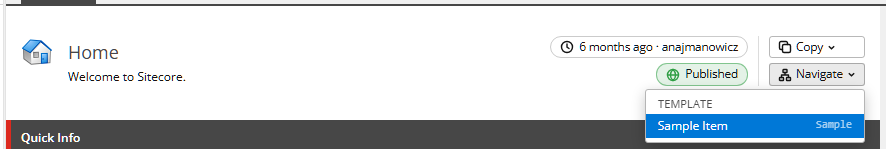
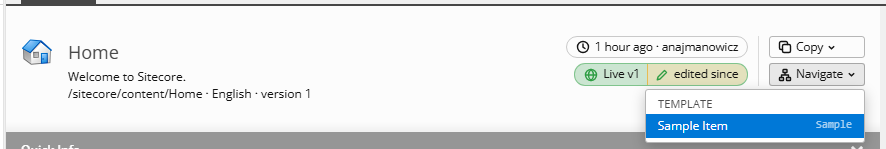
Item info: the Published chip says which version is live and what waits behind it
- Compares web with master's newest version in this language: Published · vN when it is live, else Live vN or Not published beside what waits
- Edited since (the live version changed after publishing), vN · state (a newer version in workflow), vN ready to publish (final state or no workflow), not in master (web holds a version master lost)
- The workflow state comes from Gallery.WorkflowEdit, asked only when web lacks the newest version; a state with no workflow commands counts as final
- Each half has its own tint, a screen reader hears both, the tooltip says each in a sentence
- Unit test for every state; the docs section and pictures redone

diff --git a/extension/lib/aids/item-info.js b/extension/lib/aids/item-info.js
@@ -1,12 +1,14 @@
 // Item info: a small panel at the right of the Content Editor's item header. Two chips say when the item's version was
-// last modified and by whom (the user name without its domain), and whether the item has a version in this language in
-// the web database; Copy puts the item's or its template's name, path or ID on the clipboard, and Navigate opens its
+// last modified and by whom (the user name without its domain), and which version in this language is live in the web
+// database against master's newest: up to date, edited since it was published, or a newer version still in workflow or
+// ready to publish; Copy puts the item's or its template's name, path or ID on the clipboard, and Navigate opens its
 // template, or one of the templates that template inherits from (Sitecore's own, under /sitecore/templates/System,
 // left out).
 // Nothing here holds up the editor: the chips fill in once the browser is idle, from the version list Sitecore shows
-// under the ribbon's version button (Gallery.Versions, once for the content database and once for web), and Navigate
-// reads the template's Inheritance tab (TemplateInheritance) the first time it opens. Copy reads Quick Info, already in
-// the page; without Quick Info (switched off in the Application Options) there is no template to copy or open.
+// under the ribbon's version button (Gallery.Versions, once for the content database and once for web), and, when web
+// lacks master's newest version, from the Review tab's workflow menu for it (Gallery.WorkflowEdit). Navigate reads the
+// template's Inheritance tab (TemplateInheritance) the first time it opens. Copy reads Quick Info, already in the page;
+// without Quick Info (switched off in the Application Options) there is no template to copy or open.
 // The pill says how long ago; its tooltip has Sitecore's own text for the date, in the user's format and the server's time.
 // ponytail: a template's inheritance is kept for the page's life; a base template changed meanwhile shows on reload
 (function (root) {
@@ -21,6 +23,10 @@
     globeOff: svg('<circle cx="7" cy="7" r="5.5"/><path d="M1.5 7h11M7 1.5C5.2 3.1 4.4 5 4.4 7s.8 3.9 2.6 5.5M7 1.5c1.8 1.6 2.6 3.5 2.6 5.5S8.8 10.9 7 12.5M1.5 1.5l11 11"/>'),
     copy: svg('<rect x="4.5" y="4.5" width="8" height="8" rx="1.5"/><path d="M9.5 4.5V3A1.5 1.5 0 0 0 8 1.5H3A1.5 1.5 0 0 0 1.5 3v5A1.5 1.5 0 0 0 3 9.5h1.5"/>'),
     template: svg('<rect x="5" y="1.5" width="4" height="3" rx=".5"/><rect x="1.5" y="9.5" width="4" height="3" rx=".5"/><rect x="8.5" y="9.5" width="4" height="3" rx=".5"/><path d="M7 4.5V7M3.5 9.5V7h7v2.5"/>'),
+    flow: svg('<circle cx="3" cy="3" r="1.5"/><circle cx="11" cy="11" r="1.5"/><path d="M4.5 3H9a2 2 0 0 1 0 4H5a2 2 0 0 0 0 4h4.5"/>'),
+    ready: svg('<path d="M7 9.5V2.5M4.5 5L7 2.5 9.5 5M2.5 9.5v2h9v-2"/>'),
+    edited: svg('<path d="M9.5 2.5l2 2-6.5 6.5-2.7.7.7-2.7z"/>'),
+    gone: svg('<path d="M7 1.8l5.6 9.7H1.4z"/><path d="M7 5.5v2.6M7 10v.01"/>'),
     down: '<svg viewBox="0 0 10 10" width="9" height="9" aria-hidden="true" fill="none" stroke="currentColor" stroke-width="1.5"><path d="M2 3.5l3 3 3-3"/></svg>',
   };
   const inheritance = new Map(); // template ID -> Promise of [{ id, name, folder, depth }]
@@ -76,6 +82,55 @@
       const b = tr.querySelectorAll("b");
       return b.length === 2 && { ver: (/^(\d+)\./.exec(tr.textContent.trim()) || [])[1], date: b[0].textContent.trim(), user: b[1].textContent.trim() };
     }).filter(Boolean);
+  }
+
+  // A version's workflow and state, from the menu under the Review tab's workflow button: "The item is in the <b>Draft</b>
+  // state<br>in the <b>Sample Workflow</b> workflow.", a lock after a double break, then Edit and the state's commands.
+  // ponytail: Sitecore names no final state here; one with no commands (Sample Workflow's Approved) is taken as final,
+  // so a final state with commands of its own reads as still in workflow
+  function flowOf(page) {
+    const text = page.querySelector("div.scMenuItem");
+    if (!text) return { workflow: null }; // a template without the Workflow field
+    const [about, lock] = text.innerHTML.split(/<br\s*\/?>\s*<br\s*\/?>/i);
+    const box = page.createElement("div");
+    box.innerHTML = about; // an inert parsed page: nothing in it runs
+    const b = [...box.querySelectorAll("b")].map((x) => x.textContent.trim());
+    if (b.length < 2) return { workflow: b[0] || null, state: null };
+    // a lock can hide the commands, so a locked version is never taken as final
+    return { workflow: b[1], state: b[0], final: lock === undefined && !page.querySelector('[onclick*="item:workflow("]') };
+  }
+
+  async function workflow(doc, item, ver, signal) {
+    const r = await fetch(url(doc, "Gallery.WorkflowEdit", { id: item.id, la: item.lang, vs: ver, db: item.db }), { credentials: "include", signal });
+    const page = new DOMParser().parseFromString(await r.text(), "text/html");
+    if (!r.ok || !page.querySelector('form[action*="Gallery.WorkflowEdit"]')) throw new Error("not the workflow menu");
+    return flowOf(page);
+  }
+
+  // What web has against master's newest version in this language: rows from gallery() for each database, flow from
+  // workflow() for master's newest (undefined when web has it, null when it could not be read).
+  function published(mine, web, flow) {
+    const top = (rows) => rows.reduce((n, r) => Math.max(n, +r.ver || 0), 0);
+    const newest = top(mine);
+    const live = top(web);
+    const row = (rows, v) => rows.find((r) => +r.ver === v);
+    let next = null;
+    if (live && !row(mine, live)) {
+      next = { state: "gone", text: "not in master", title: `Version ${live} is no longer in master; publishing the item brings web in line.` };
+    } else if (newest > live) {
+      if (flow && flow.state && !flow.final) next = { state: "flow", text: `v${newest} · ${flow.state}`, title: `Version ${newest} is in the ${flow.state} state of the ${flow.workflow} workflow.` };
+      else if (flow && flow.workflow && !flow.state) next = { state: "flow", text: `v${newest} · no state`, title: `Version ${newest} is in the ${flow.workflow} workflow but has no state.` };
+      else if (flow) next = { state: "ready", text: `v${newest} ready to publish`, title: `Version ${newest} goes live on the next publish.` };
+      else if (live) next = { state: "ready", text: `v${newest} not published`, title: `Version ${newest} is not in web yet.` };
+    } else if (live) {
+      const m = row(mine, live);
+      const w = row(web, live);
+      if (m.date !== w.date || m.user !== w.user) next = { state: "edited", text: "edited since", title: `It was changed after it was published: ${m.date} by ${m.user}.` };
+    }
+    const head = live
+      ? { state: "yes", text: next ? `Live v${live}` : `Published · v${live}`, title: `Version ${live} is live in the web database.` }
+      : { state: "no", text: "Not published", title: "No version in this language in the web database." };
+    return { ...head, title: next ? `${head.title} ${next.title}` : head.title, next };
   }
 
   // the bases of a template, as its Inheritance tab nests them, Sitecore's own left out with everything under them
@@ -156,10 +211,23 @@
       const v = mine.status === "fulfilled" && (mine.value.find((r) => r.ver === item.ver) || mine.value.at(-1));
       if (v) fill(mod, ICONS.clock, `${ago(v.date) || v.date} · ${v.user.slice(v.user.lastIndexOf("\\") + 1)}`, `Modified ${v.date} by ${v.user}`);
       else mod.remove(); // signed out, or a page Sitecore would not give: no chip rather than a wrong one
-      if (pub && web.status === "fulfilled") {
-        const on = web.value.length > 0;
-        fill(pub, on ? ICONS.globe : ICONS.globeOff, on ? "Published" : "Not published",
-          on ? `In the web database: ${web.value.length} version${web.value.length > 1 ? "s" : ""} in this language` : "No version in this language in the web database", on ? "yes" : "no");
+      if (pub && web.status === "fulfilled" && mine.status === "fulfilled" && mine.value.length) {
+        const newest = mine.value.reduce((n, r) => Math.max(n, +r.ver || 0), 0);
+        const flow = web.value.some((r) => +r.ver >= newest) ? undefined : await workflow(ctx.doc, item, newest, ctrl.signal).catch(() => null);
+        if (ctrl.signal.aborted || !header.isConnected) return;
+        const p = published(mine.value, web.value, flow);
+        fill(pub, p.state === "yes" ? ICONS.globe : ICONS.globeOff, p.text, p.title, p.state);
+        if (p.next) {
+          // two halves, each with its own tint
+          const live = ctx.doc.createElement("sct-item-live");
+          live.append(...pub.childNodes);
+          pub.append(live);
+          const n = ctx.doc.createElement("sct-item-next");
+          n.dataset.state = p.next.state;
+          n.innerHTML = `<sct-item-sr>, </sct-item-sr>${ICONS[p.next.state]}`;
+          n.append(p.next.text);
+          pub.append(n);
+        }
       } else pub?.remove();
       status.removeAttribute("aria-busy");
     });
@@ -319,16 +387,30 @@
     load(ctx, header, status, item);
   }
 
+  SCT.itemInfo = { published }; // for the unit tests
+
   SCT.registerAid("item-info", {
     css: `.scEditorHeader:has(>sct-item-info){display:flow-root;height:auto!important}
 ${SCT.important(`sct-item-info{float:right;display:flex;align-items:flex-start;gap:10px;margin:0 0 4px 16px;font-size:11.5px;line-height:1.6;color:inherit}
 sct-item-status{display:flex;flex-direction:column;align-items:flex-end;gap:5px}
-sct-item-chip{display:inline-flex;align-items:center;gap:5px;padding:1px 9px;border:1px solid color-mix(in srgb,currentColor 22%,transparent);border-radius:11px;white-space:nowrap}
+sct-item-chip{display:inline-flex;align-items:center;gap:5px;padding:1px 9px;border:1px solid color-mix(in srgb,currentColor 22%,transparent);border-radius:11px;white-space:nowrap;overflow:hidden}
+sct-item-live,sct-item-next{display:inline-flex;align-items:center;gap:5px;padding:1px 7px 1px 9px}
+sct-item-next{padding:1px 9px 1px 7px;border-left:1px solid color-mix(in srgb,currentColor 22%,transparent)}
+sct-item-next[data-state="flow"]{background:color-mix(in srgb,#1c7ed6 14%,transparent);border-left-color:color-mix(in srgb,#1c7ed6 55%,transparent)}
+sct-item-next[data-state="flow"] svg{color:#1c7ed6}
+sct-item-next[data-state="ready"],sct-item-next[data-state="edited"]{background:color-mix(in srgb,#e8a10c 18%,transparent);border-left-color:color-mix(in srgb,#e8a10c 60%,transparent)}
+sct-item-next[data-state="ready"] svg,sct-item-next[data-state="edited"] svg{color:#c07f00}
+sct-item-next[data-state="gone"]{background:color-mix(in srgb,#e03131 14%,transparent);border-left-color:color-mix(in srgb,#e03131 55%,transparent)}
+sct-item-next[data-state="gone"] svg{color:#e03131}
+sct-item-sr{position:absolute;width:1px;height:1px;overflow:hidden;clip-path:inset(50%);white-space:nowrap}
 sct-item-chip svg,sct-item-info button svg{flex:none}
 sct-item-chip[data-state="yes"]{background:color-mix(in srgb,#2f9e44 13%,transparent);border-color:color-mix(in srgb,#2f9e44 55%,transparent)}
 sct-item-chip[data-state="yes"] svg{color:#2f9e44}
 sct-item-chip[data-state="no"]{background:color-mix(in srgb,#e8a10c 15%,transparent);border-color:color-mix(in srgb,#e8a10c 60%,transparent)}
 sct-item-chip[data-state="no"] svg{color:#c07f00}
+sct-item-chip:has(>sct-item-next){padding:0;gap:0;background:none}
+sct-item-chip[data-state="yes"]>sct-item-live{background:color-mix(in srgb,#2f9e44 13%,transparent)}
+sct-item-chip[data-state="no"]>sct-item-live{background:color-mix(in srgb,#e8a10c 15%,transparent)}
 sct-item-wait{display:inline-block;width:72px;height:9px;border-radius:5px;background:color-mix(in srgb,currentColor 12%,transparent)}
 sct-item-chip[data-kind="published"] sct-item-wait{width:52px}
 sct-item-actions{display:flex;flex-direction:column;gap:5px;padding-left:10px;border-left:1px solid color-mix(in srgb,currentColor 15%,transparent)}

diff --git a/test/unit/item-info.test.js b/test/unit/item-info.test.js
@@ -1,0 +1,31 @@
+const test = require("node:test");
+const assert = require("node:assert/strict");
+
+globalThis.SCT = globalThis.SCT || {};
+globalThis.SCT.registerAid ||= () => {};
+globalThis.SCT.important ||= (css) => css;
+require("../../extension/lib/aids/item-info.js");
+const { published } = globalThis.SCT.itemInfo;
+
+const v = (ver, date = "4/19/2026 6:21 PM", user = "sitecore\\jsmith") => ({ ver: String(ver), date, user });
+const said = (p) => [p.state, p.text, p.next && p.next.state, p.next && p.next.text];
+
+test("item-info: the Published chip, from web's versions against master's newest and its workflow state", () => {
+  // the newest is live, and unchanged since
+  assert.deepEqual(said(published([v(1), v(2)], [v(2)])), ["yes", "Published · v2", null, null]);
+  // the same version, changed after it was published
+  assert.deepEqual(said(published([v(2, "4/20/2026 9:00 AM")], [v(2)])), ["yes", "Live v2", "edited", "edited since"]);
+  // an older version live, the newer one in workflow, or ready
+  const flow = { workflow: "Sample Workflow", state: "Awaiting Approval", final: false };
+  assert.deepEqual(said(published([v(2), v(3)], [v(2)], flow)), ["yes", "Live v2", "flow", "v3 · Awaiting Approval"]);
+  assert.deepEqual(said(published([v(2), v(3)], [v(2)], { ...flow, state: "Approved", final: true })), ["yes", "Live v2", "ready", "v3 ready to publish"]);
+  assert.deepEqual(said(published([v(2), v(3)], [v(2)], { workflow: null })), ["yes", "Live v2", "ready", "v3 ready to publish"]);
+  assert.deepEqual(said(published([v(2), v(3)], [v(2)], null)), ["yes", "Live v2", "ready", "v3 not published"]);
+  // nothing in web
+  assert.deepEqual(said(published([v(1)], [], { ...flow, state: "Draft" })), ["no", "Not published", "flow", "v1 · Draft"]);
+  assert.deepEqual(said(published([v(1)], [], { workflow: null })), ["no", "Not published", "ready", "v1 ready to publish"]);
+  assert.deepEqual(said(published([v(1)], [], null)), ["no", "Not published", null, null]);
+  // web holds a version master no longer has
+  assert.deepEqual(said(published([v(1), v(2)], [v(4)])), ["yes", "Live v4", "gone", "not in master"]);
+  assert.equal(published([v(2), v(3)], [v(2)], flow).title, "Version 2 is live in the web database. Version 3 is in the Awaiting Approval state of the Sample Workflow workflow.");
+});

diff --git a/docs/ui-improvements.md b/docs/ui-improvements.md
@@ -114,7 +114,7 @@ each button's name, and that a greyed-out one is unavailable.
 <!-- /shots:section-toggle -->
 
 ### Item info
-<!-- aid:item-info d6c18a6571 -->
+<!-- aid:item-info 75646a3e23 -->
 
 **What it is for.** When an item was last changed, by whom, and whether it is live are spread over the Statistics
 section (hidden with the standard fields), the version menu and the web database. Copying an item's ID or opening the
@@ -122,14 +122,21 @@ templates it inherits from takes several clicks and a search.
 
 **What changes.** A small panel at the right of the item's header. Its top pill says how long ago the version you are
 editing was modified and by whom ("2 hours ago · jsmith"); its tooltip has the full date and the user's domain. The
-pill below says Published or Not published: whether the item has a version in this language in the web database.
+pill below compares the web database with master's newest version in this language. "Published · v3" means the newest
+version is live. Otherwise the pill splits in two: its left half says what is live ("Live v2", or "Not published"),
+its right half what is waiting: "edited since" when the live version was changed after it was published, "v3 · Awaiting
+Approval" when a newer version is still in workflow, "v3 ready to publish" when it is in a final state or the item has
+no workflow, and "not in master" when web holds a version master no longer has. A screen reader hears both halves,
+and the tooltip says each in a sentence. The workflow state comes from the Review tab's workflow menu; a state with
+no workflow commands, such as Sample Workflow's Approved, counts as final.
 **Copy** opens a menu of the item's and its template's name, path and ID; picking one copies it. **Navigate** opens a
 menu of the item's template and the templates it inherits from, nested, with Sitecore's own (under
 /sitecore/templates/System) left out; picking one opens it in the Content Editor.
 
 The panel never holds up the editor: the pills fill in once the browser is idle, from the version list Sitecore shows
-under the version button, and Navigate asks for the template's inheritance only when it opens. Copy reads Quick Info,
-already in the page; with Quick Info switched off there is no template to copy or open, so Navigate is left out.
+under the version button (and the workflow menu, only when web lacks the newest version), and Navigate asks for the
+template's inheritance only when it opens. Copy reads Quick Info, already in the page; with Quick Info switched off
+there is no template to copy or open, so Navigate is left out.
 
 Both buttons are menu buttons: Enter, Space or Down opens the menu with focus on its first entry, the arrows, Home and
 End move, and Escape closes it with focus back on its button. A screen reader hears "Copied" after a copy.
